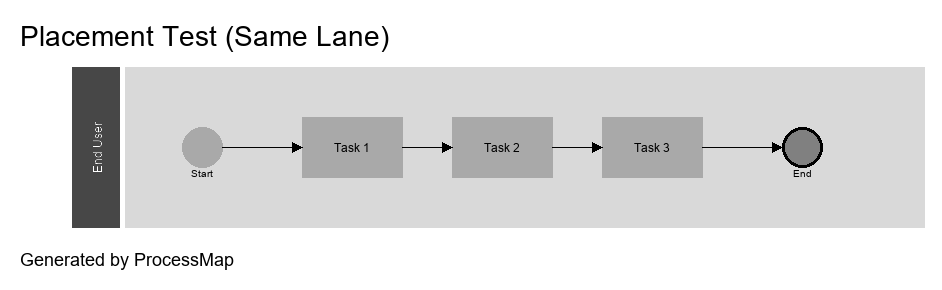
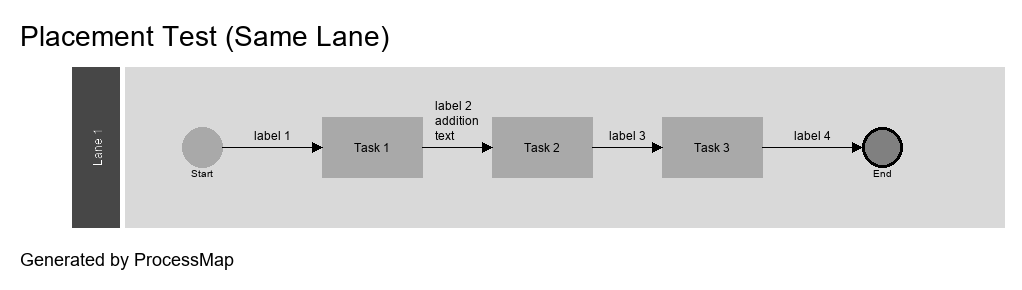
test connection labels

diff --git a/src/test_processmapper.py b/src/test_processmapper.py
@@ -116,10 +116,12 @@ def test_case5():
             with pool1.add_lane("Log System") as lane3:
                 log_error = lane3.add_element("Log Error", ActivityType.TASK)
 
-        start.connect(login).connect(enter_keyword).connect(search_records)
-        search_records.connect(result_found).connect(display_result)
+        start.connect(login, "User \nAuthenticates").connect(
+            enter_keyword, "Authenticated"
+        ).connect(search_records, "Search Criteria")
+        search_records.connect(result_found, "Result").connect(display_result, "Yes")
         display_result.connect(logout).connect(end)
-        result_found.connect(log_error).connect(display_result)
+        result_found.connect(log_error, "No").connect(display_result)
 
         my_process_map.set_footer("Generated by ProcessMap")
         my_process_map.draw()
@@ -128,14 +130,16 @@ def test_case5():
 
 def test_case6():
     with ProcessMap("Placement Test (Same Lane)") as my_process_map:
-        with my_process_map.add_lane("End User") as lane1:
+        with my_process_map.add_lane("Lane 1") as lane1:
             start = lane1.add_element("Start", EventType.START)
             task1 = lane1.add_element("Task 1", ActivityType.TASK)
             task2 = lane1.add_element("Task 2", ActivityType.TASK)
             task3 = lane1.add_element("Task 3", ActivityType.TASK)
             end = lane1.add_element("End", EventType.END)
 
-            start.connect(task1).connect(task2).connect(task3).connect(end)
+            start.connect(task1, "label 1").connect(
+                task2, "label 2\naddition\ntext"
+            ).connect(task3, "label 3").connect(end, "label 4")
 
         my_process_map.set_footer("Generated by ProcessMap")
         my_process_map.draw()
